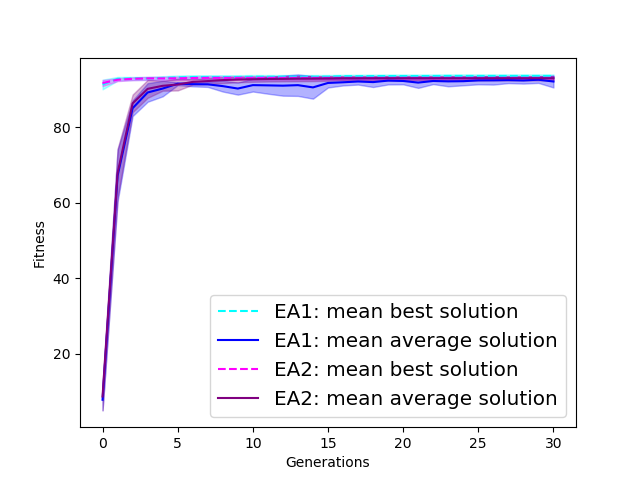
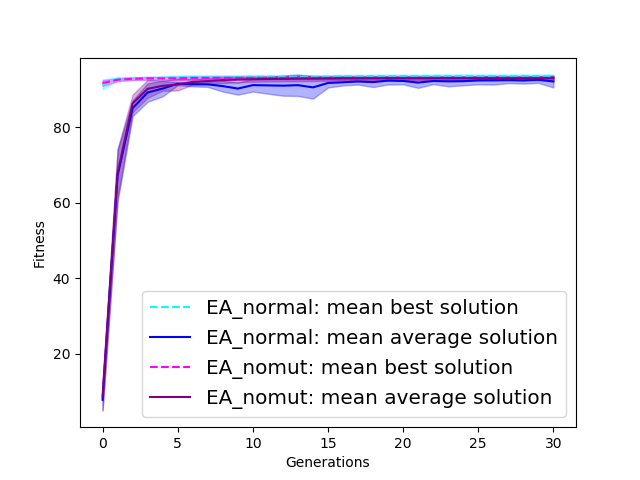
extra plots mutnone

diff --git a/visualize_plots.py b/visualize_plots.py
@@ -38,7 +38,7 @@ def preprocess_results(results):
     return mean_best, std_best, mean_average, std_average
 
 
-def line_plot(results, enemy):
+def line_plot(results, enemy, extra_print=None, uniform=False, normal=False, none=False):
     colors = ['cyan', 'blue', 'magenta', 'purple']
     for i, result in enumerate(results):
         mean_best, std_best, mean_average, std_average = result
@@ -55,8 +55,14 @@ def line_plot(results, enemy):
         plt.fill_between(range(len(mean_average)), lower_bound_avg, upper_bound_avg, alpha=.3, color=colors[i*2+1])
 
     if len(results) == 2:
-        plt.legend(['EA1: mean best solution', 'EA1: mean average solution', 'EA2: mean best solution', 'EA2: mean average solution'], fontsize='x-large')
-        plt.savefig('results/plots/lineplot_enemy{}_normal_vs_none'.format(enemy))
+        if uniform == True and normal == True:
+            plt.legend(['EA_uniform: mean best solution', 'EA_uniform: mean average solution', 'EA_normal: mean best solution', 'EA_normal: mean average solution'], fontsize='x-large')
+        elif uniform == True and none == True:
+            plt.legend(['EA_uniform: mean best solution', 'EA_uniform: mean average solution', 'EA_nomut: mean best solution', 'EA_nomut: mean average solution'], fontsize='x-large')
+        elif normal == True and none == True:
+            plt.legend(['EA_normal: mean best solution', 'EA_normal: mean average solution', 'EA_nomut: mean best solution', 'EA_nomut: mean average solution'], fontsize='x-large')
+
+        plt.savefig('results/plots/lineplot_enemy{}{}'.format(enemy, extra_print))
     elif len(results) == 1:
         plt.legend(['EA3: mean best solution', 'EA3: mean average solution'], fontsize='x-large')
         plt.savefig('results/plots/lineplot_enemy{}_doomsday'.format(enemy))
@@ -64,10 +70,10 @@ def line_plot(results, enemy):
 
 
 if __name__ == "__main__":
-    enemy = 2
+    enemy = 3
     # results mutation uniform
-    # results_files_1 = load_files('results/task1/', enemy, 'uniform')
-    # results_1 = preprocess_results(results_files_1)
+    results_files_1 = load_files('results/task1/', enemy, 'uniform')
+    results_1 = preprocess_results(results_files_1)
     # results mutation normal
     results_files_2 = load_files('results/task1/', enemy, 'normal')
     results_2 = preprocess_results(results_files_2)
@@ -75,7 +81,10 @@ if __name__ == "__main__":
     # results_files_3 = load_files('results/task1/', enemy, 'doomsday')
     # results_3 = preprocess_results(results_files_3)
     # results mutnone
-    results_files_4 = load_files('results/task1/', enemy, 'none')
-    results_4 = preprocess_results(results_files_4)
+    # results_files_4 = load_files('results/task1/', enemy, 'none')
+    # results_4 = preprocess_results(results_files_4)
+
+    line_plot([results_1, results_2], enemy=enemy, extra_print='_uniform_vs_normal', uniform=True, normal=True)
     
-    line_plot([results_2, results_4], enemy=enemy)
+    # line_plot([results_1, results_4], enemy=enemy, extra_print='_uniform_vs_none', uniform=True, none=True)
+    # line_plot([results_2, results_4], enemy=enemy, extra_print='_normal_vs_none', normal=True, none=True)
